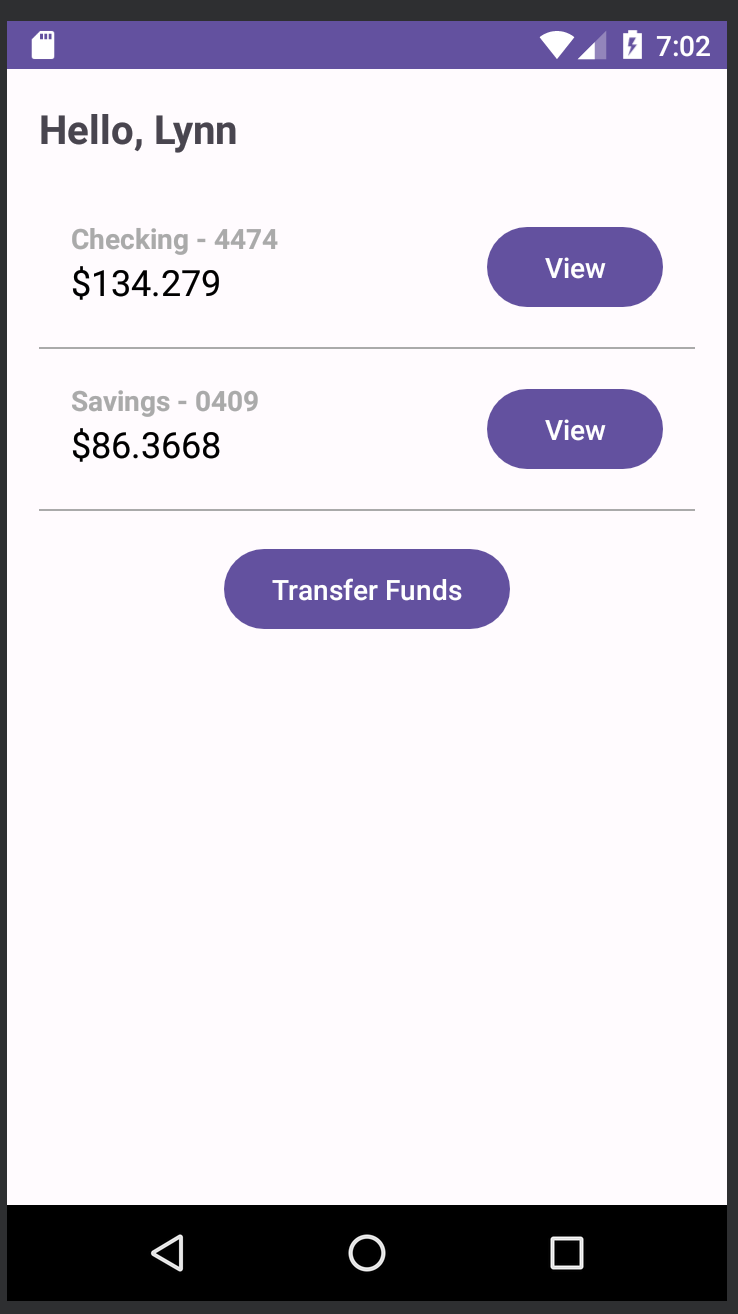
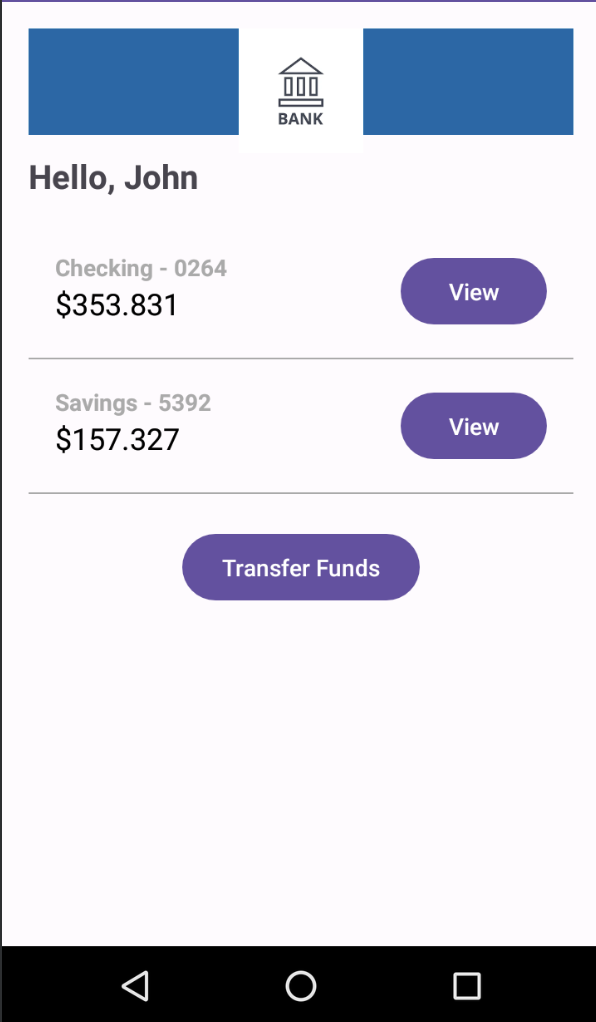
Further Improvements
- Configured HTTPS for secure server communication
- Added Logo header

Changed region(s): [[0.0, 0.0, 1.0, 1.0], [0.302, 0.5157, 0.7248, 0.6067]]

diff --git a/app/src/main/java/com/example/banking/APIClient.java b/app/src/main/java/com/example/banking/APIClient.java
@@ -1,5 +1,7 @@
 package com.example.banking;
 
+import android.content.Context;
+
 import com.fasterxml.jackson.core.JsonProcessingException;
 import com.fasterxml.jackson.databind.JsonNode;
 import com.fasterxml.jackson.databind.ObjectMapper;
@@ -10,23 +12,38 @@ import java.io.InputStreamReader;
 import java.net.HttpURLConnection;
 import java.net.URL;
 
+import javax.net.ssl.HostnameVerifier;
+import javax.net.ssl.HttpsURLConnection;
+import javax.net.ssl.SSLContext;
+import javax.net.ssl.SSLSession;
+
 public class APIClient {
 
-    private static final String API_SERVER = "http://<FLASK_SERVER_IP_ADDRESS>:<PORT>";
+    private static final String API_SERVER = "https://<FLASK_SERVER_IP_ADDRESS>:<PORT>";
     HttpURLConnection urlConnection = null;
     private String requestMethod;
     private String result;
 
-    public APIClient() {};
+    private Context context;
+
+    public APIClient(Context context)
+    {
+        this.context = context;
+    };
 
     public JsonNode executeGetRequest(String endpoint) throws JsonProcessingException {
         try {
             URL url =  new URL(API_SERVER + endpoint);
-            urlConnection = (HttpURLConnection) url.openConnection();
+            HttpsURLConnection urlConnection = (HttpsURLConnection) url.openConnection();
+
+            SSLContext sslContext = SSLUtils.createSSLContext(this.context);
+            urlConnection.setSSLSocketFactory(sslContext.getSocketFactory());
+
             urlConnection.setRequestMethod("GET");
             urlConnection.setRequestProperty("Content-Type", "application/json");
 
             InputStream APIResponse = urlConnection.getInputStream();
+            System.out.println(APIResponse);
             result = readInputStream(APIResponse);
 
         } catch (Exception e) {
@@ -45,7 +62,11 @@ public class APIClient {
     public JsonNode executePostRequest(String endpoint, String postData) throws JsonProcessingException {
         try {
             URL url =  new URL(API_SERVER + endpoint);
-            urlConnection = (HttpURLConnection) url.openConnection();
+            HttpsURLConnection urlConnection = (HttpsURLConnection) url.openConnection();
+
+            SSLContext sslContext = SSLUtils.createSSLContext(this.context);
+            urlConnection.setSSLSocketFactory(sslContext.getSocketFactory());
+
             urlConnection.setRequestMethod("POST");
             urlConnection.setRequestProperty("Content-Type", "application/json");
 
@@ -54,7 +75,9 @@ public class APIClient {
             urlConnection.getOutputStream().write(postData.getBytes());
 
             InputStream APIResponse = urlConnection.getInputStream();
+            System.out.println(APIResponse);
             result = readInputStream(APIResponse);
+
 
         } catch (Exception e) {
             e.getMessage();

diff --git a/app/src/main/java/com/example/banking/SSLUtils.java b/app/src/main/java/com/example/banking/SSLUtils.java
@@ -1,0 +1,40 @@
+package com.example.banking;
+
+import android.content.Context;
+import java.io.InputStream;
+import java.security.KeyStore;
+import java.security.cert.CertificateFactory;
+import java.security.cert.X509Certificate;
+import java.util.Collections;
+
+import javax.net.ssl.SSLContext;
+import javax.net.ssl.TrustManagerFactory;
+
+public class SSLUtils {
+
+    public static SSLContext createSSLContext(Context context) {
+        try {
+            // Load the certificate from resources
+            CertificateFactory cf = CertificateFactory.getInstance("X.509");
+            InputStream certInputStream = context.getResources().openRawResource(R.raw.cert);
+            X509Certificate cert = (X509Certificate) cf.generateCertificate(certInputStream);
+
+            // Create a KeyStore containing the certificate
+            KeyStore keyStore = KeyStore.getInstance(KeyStore.getDefaultType());
+            keyStore.load(null, null);
+            keyStore.setCertificateEntry("myCertificate", cert);
+
+            // Create a TrustManager that trusts the certificate
+            TrustManagerFactory trustManagerFactory = TrustManagerFactory.getInstance(TrustManagerFactory.getDefaultAlgorithm());
+            trustManagerFactory.init(keyStore);
+
+            // Create an SSLContext that uses the TrustManager
+            SSLContext sslContext = SSLContext.getInstance("TLS");
+            sslContext.init(null, trustManagerFactory.getTrustManagers(), null);
+
+            return sslContext;
+        } catch (Exception e) {
+            throw new RuntimeException("Error loading certificate", e);
+        }
+    }
+}

diff --git a/app/src/main/java/com/example/banking/TransactionActivity.java b/app/src/main/java/com/example/banking/TransactionActivity.java
@@ -38,8 +38,8 @@ public class TransactionActivity extends AppCompatActivity {
         final TextView accountBalanceTextView = findViewById(R.id.accountBalanceTextView);
         final Button filterTransactionsButton = findViewById(R.id.filterButton);
 
-        accountTypeTextView.setText("Account Type: " + accountType);
-        accountNumberTextView.setText("Account Number: " + accountNumber);
+        accountTypeTextView.setText(accountType);
+        accountNumberTextView.setText("Acc. No - " + accountNumber);
         accountBalanceTextView.setText(accountBalance);
 
         final EditText keywordsEditText = findViewById(R.id.keywordsEditText);
@@ -48,7 +48,7 @@ public class TransactionActivity extends AppCompatActivity {
         final EditText minAmountEditText = findViewById(R.id.minAmountEditText);
         final EditText maxAmountEditText = findViewById(R.id.maxAmountEditText);
 
-        APIClient client = new APIClient();
+        APIClient client = new APIClient(getApplicationContext());
         JsonNode data = null;
         try {
             data = client.executeGetRequest("/account/" + accountId + "/transactions");
@@ -74,7 +74,7 @@ public class TransactionActivity extends AppCompatActivity {
                 String minAmount = minAmountEditText.getText().toString();
                 String maxAmount = maxAmountEditText.getText().toString();
 
-                APIClient client = new APIClient();
+                APIClient client = new APIClient(getApplicationContext());
                 JsonNode data = null;
                 try {
                     data = client.executeGetRequest(

diff --git a/app/src/main/java/com/example/banking/LoginActivity.java b/app/src/main/java/com/example/banking/LoginActivity.java
@@ -1,6 +1,7 @@
 package com.example.banking;
 
 import androidx.appcompat.app.AppCompatActivity;
+
 import com.fasterxml.jackson.core.JsonProcessingException;
 import com.fasterxml.jackson.databind.JsonNode;
 
@@ -40,7 +41,7 @@ public class LoginActivity extends AppCompatActivity {
                         String username = editUsernameText.getText().toString();
                         String password = editPasswordText.getText().toString();
 
-                        APIClient client = new APIClient();
+                        APIClient client = new APIClient(getApplicationContext());
                         String postData = "{\n    \"username\": \"" + username + "\",\n    \"password\": \"" + password + "\"\n}";
                         JsonNode data = null;
                         try {

diff --git a/app/src/main/java/com/example/banking/TransferActivity.java b/app/src/main/java/com/example/banking/TransferActivity.java
@@ -61,7 +61,7 @@ public class TransferActivity extends AppCompatActivity {
 
                         try {
 
-                            APIClient client = new APIClient();
+                            APIClient client = new APIClient(getApplicationContext());
                             data = client.executePostRequest("/transfer", postData);
                         } catch (JsonProcessingException e) {
                             throw new RuntimeException(e);

diff --git a/app/src/main/java/com/example/banking/AccountActivity.java b/app/src/main/java/com/example/banking/AccountActivity.java
@@ -31,7 +31,7 @@ public class AccountActivity extends AppCompatActivity {
 
         final Button transferButton = findViewById(R.id.transferButton);
 
-        APIClient client = new APIClient();
+        APIClient client = new APIClient(getApplicationContext());
         JsonNode data = null;
         try {
             data = client.executeGetRequest("/customer/" + customerId + "/accounts");

diff --git a/Readme.md b/Readme.md
@@ -7,7 +7,7 @@
 
 3. In APIClient.java, replace API_SERVER with your flask server's ip address and port.
    
-   e.g `http://<ip>:<port>`
+   e.g `https://<ip>:<port>`
 
    Note: Assign the private IP address instead of 127.0.0.1 as a workaround if Android Studio blocks
          traffic on localhost.
